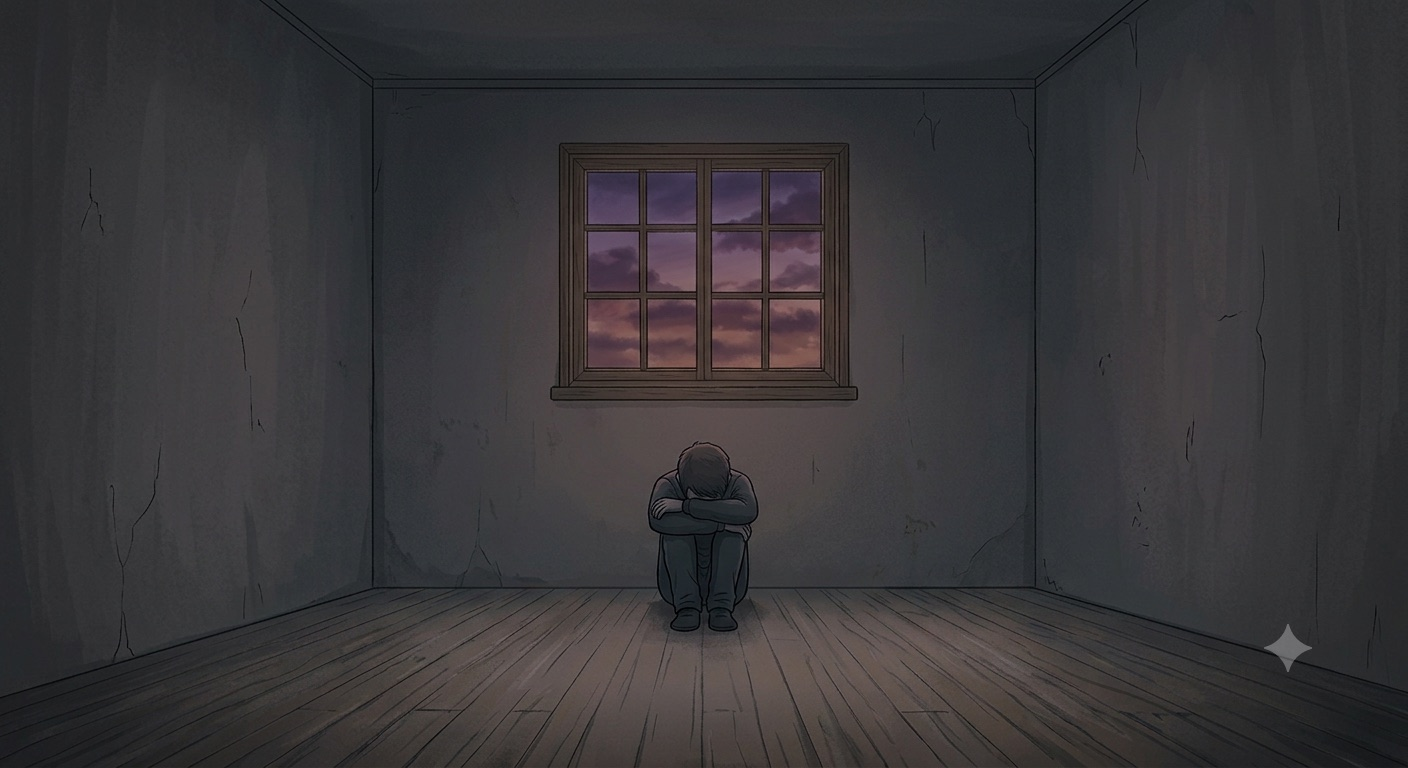
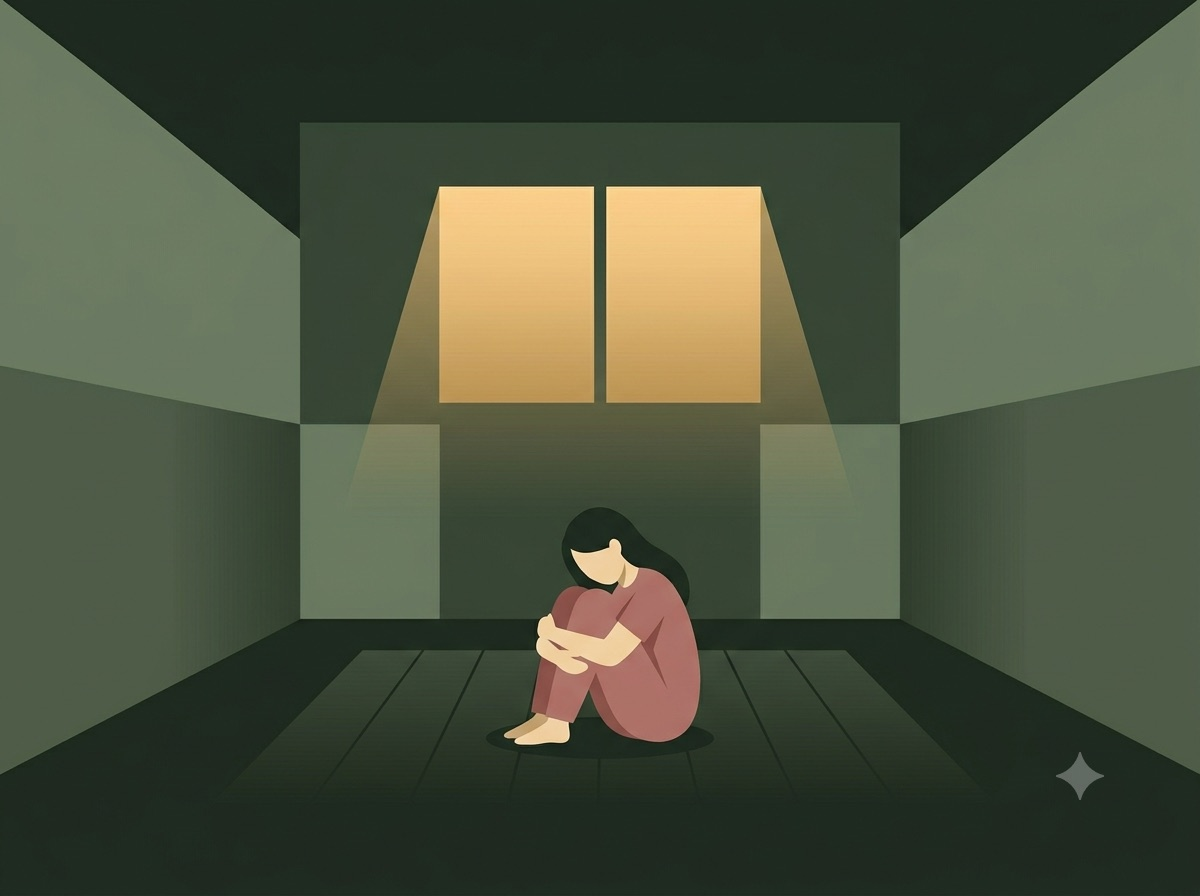
despair 삽화 재생성으로 교체 - 플랫 벡터 스타일

diff --git a/기획서.html b/기획서.html
@@ -2142,11 +2142,11 @@
                 이미지로 읽힐 거라는 판단으로 사용자가 그대로 채택(2026-08-24)</td></tr>
                 <tr><td><code>obscurity</code></td><td>✅ 117KB</td><td>빈 무대 스포트라이트, 그림자
                 속 쌓인 의자들 - <b>2026-08-25 재생성으로 교체됨</b>: 옛 회화풍 버전에서 플랫 벡터
-                스타일로 교체(코드 변경 없음). 다만 <code>despair</code>·<code>isolation</code>은
-                아직 이 옛 회화풍 버전과 같은 계열로 남아있어, 이 교체로 셋이 갈라짐(재생성되면 다시
-                맞출 것)</td></tr>
-                <tr><td><code>despair</code></td><td>✅ 170KB</td><td>어두운 빈 방 바닥에 웅크린 인물,
-                창밖 노을 - 회화풍 계열(옛 <code>obscurity</code>와 같은 계열), 텍스트 없음</td></tr>
+                스타일로 교체(코드 변경 없음)</td></tr>
+                <tr><td><code>despair</code></td><td>✅ 80KB</td><td>어두운 빈 방 바닥에 웅크린 인물,
+                창가에서 새어드는 빛 - <b>2026-08-25 재생성으로 교체됨</b>: 옛 회화풍 버전에서 플랫
+                벡터 스타일로 교체(코드 변경 없음). <code>isolation</code>만 아직 옛 회화풍 그대로
+                남음</td></tr>
                 <tr><td><code>isolation</code></td><td>✅ 216KB</td><td>혼자 앉은 저녁 식탁, 빈 의자 -
                 <code>despair</code>·<code>obscurity</code>와 같은 회화풍 계열, 텍스트 없음</td></tr>
                 <tr><td colspan="3"><b>여기까지 1순위(엔딩 16종) 전체 완료.</b> 이후는 2순위 루트 진입
